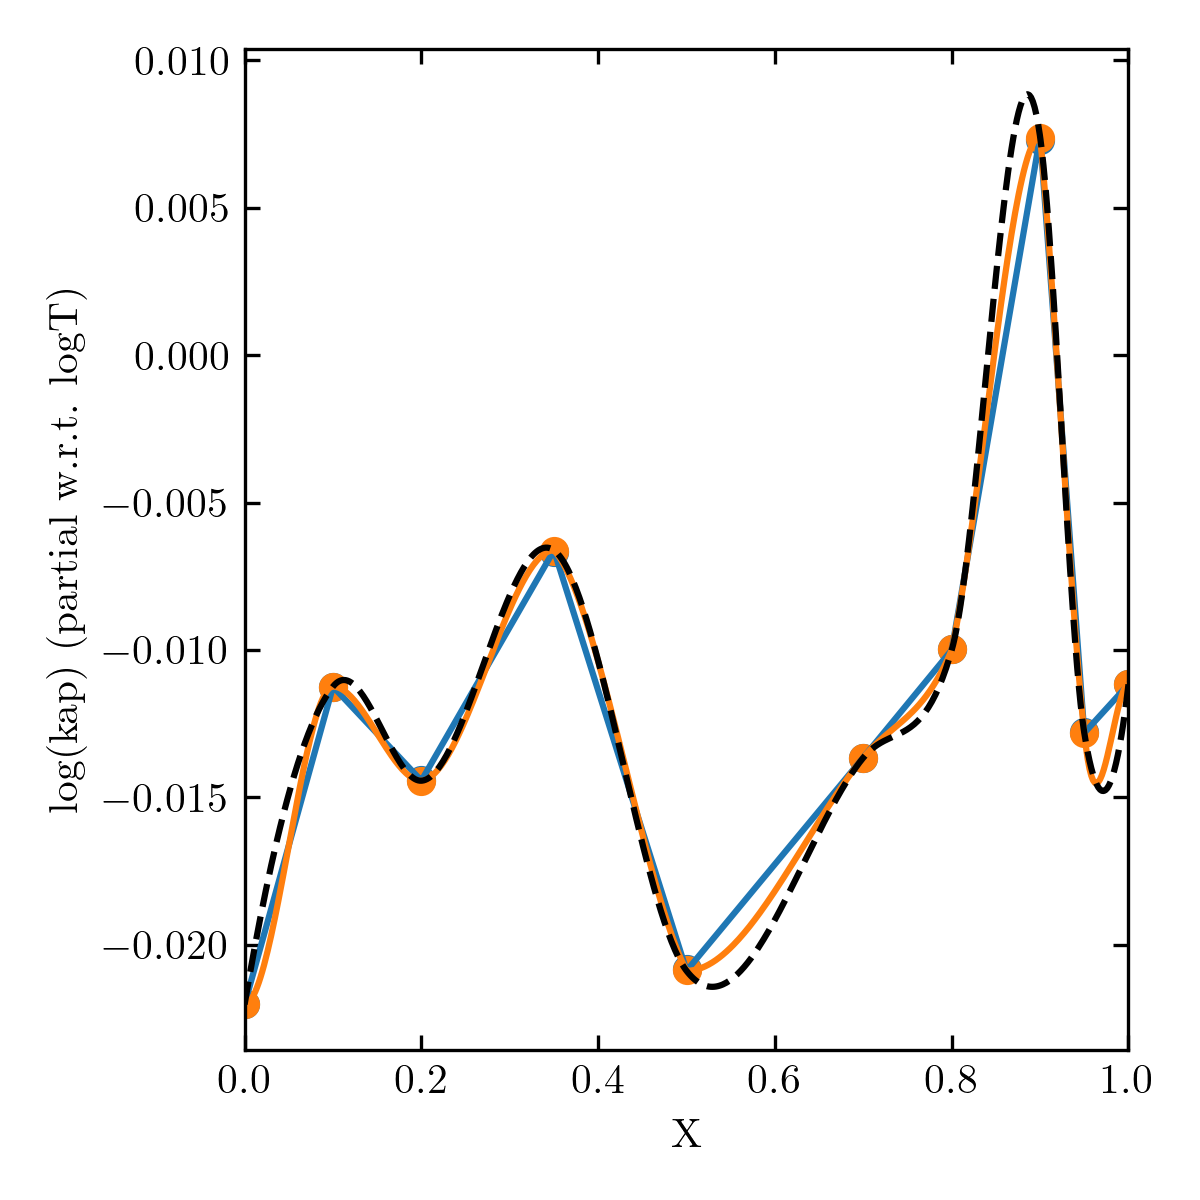
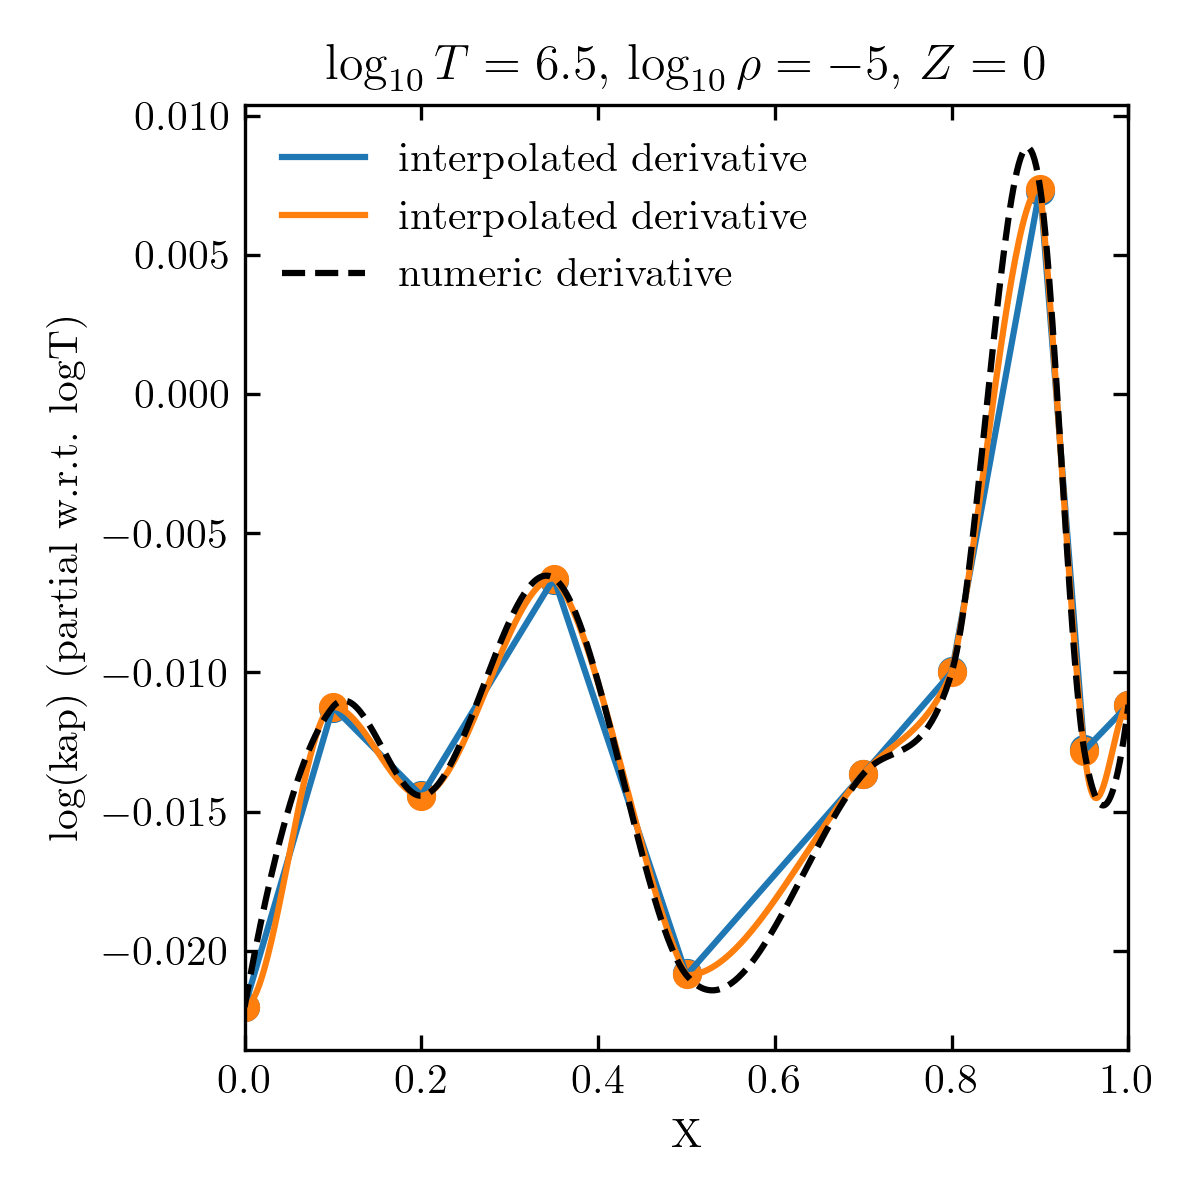
some line plot cleanup

diff --git a/kap/plotter/line_plot.py b/kap/plotter/line_plot.py
@@ -29,6 +29,7 @@ with open(files[0]) as f:
 
 # set up plot and labels
 fig, ax = plt.subplots()
+ax.set_title(r'$\log_{10} T = 6.5$, $\log_{10} \rho = -5$, $Z=0$')
 ax.set_xlabel(xlabel)
 ax.set_ylabel(title)
     
@@ -39,7 +40,7 @@ for infile in files:
     logkap_logTmid_m1 = kapDT[int(nY/2)-1,:,2]
     logkap_logTmid_p1 = kapDT[int(nY/2)+1,:,2]
 
-    ax.plot(Xran,logkap_logTmid)
+    ax.plot(Xran,logkap_logTmid,label='interpolated derivative')
     #ax.plot(Xran,logkap_logTmid_p1,ls='--')
     ax.set_xlim(Xran.min(), Xran.max())
 
@@ -73,9 +74,10 @@ for infile in files:
 
     #ax.plot(Xran,nderiv_m1,ls=':',c='k')
     #ax.plot(Xran,nderiv_p1,ls='--',c='k')
-    ax.plot(Xran,(nderiv_p1+nderiv_m1)/2,ls='--',c='k')
+    ax.plot(Xran,(nderiv_p1+nderiv_m1)/2,ls='--',c='k',label='numeric derivative')
+
+ax.legend()
     
 # save figure
 fig.savefig('line_kap.png', dpi=300)
 
-plt.show()
